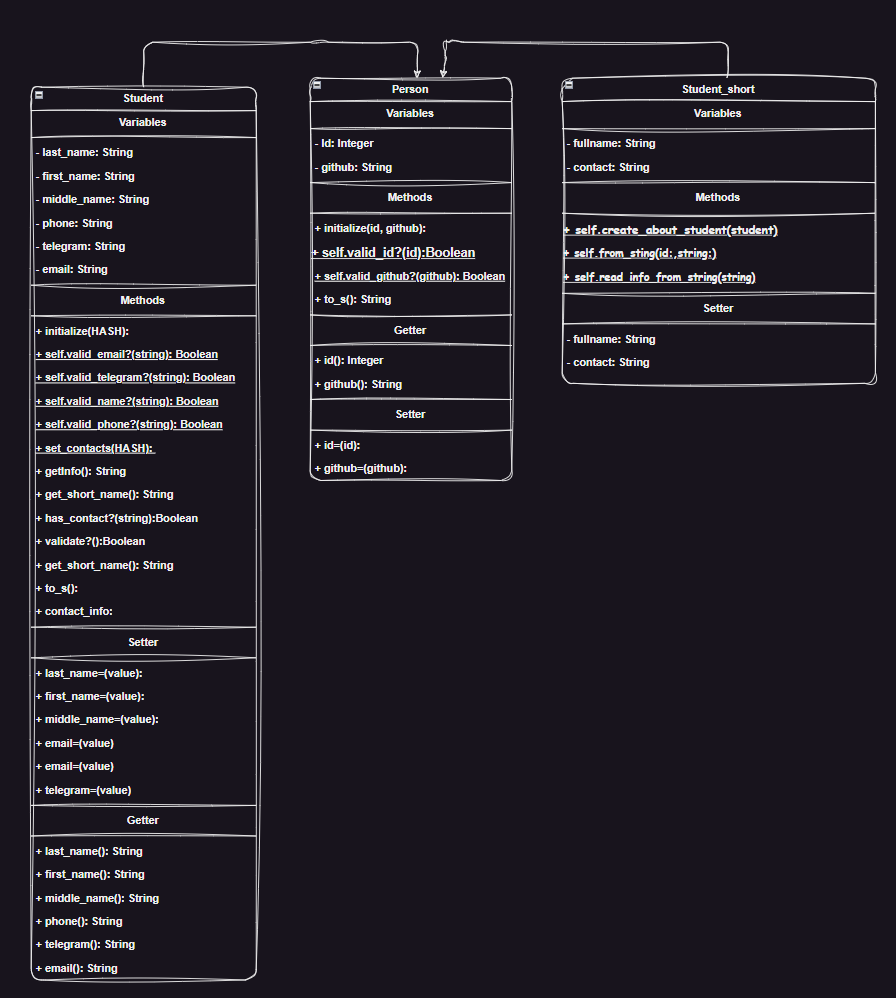
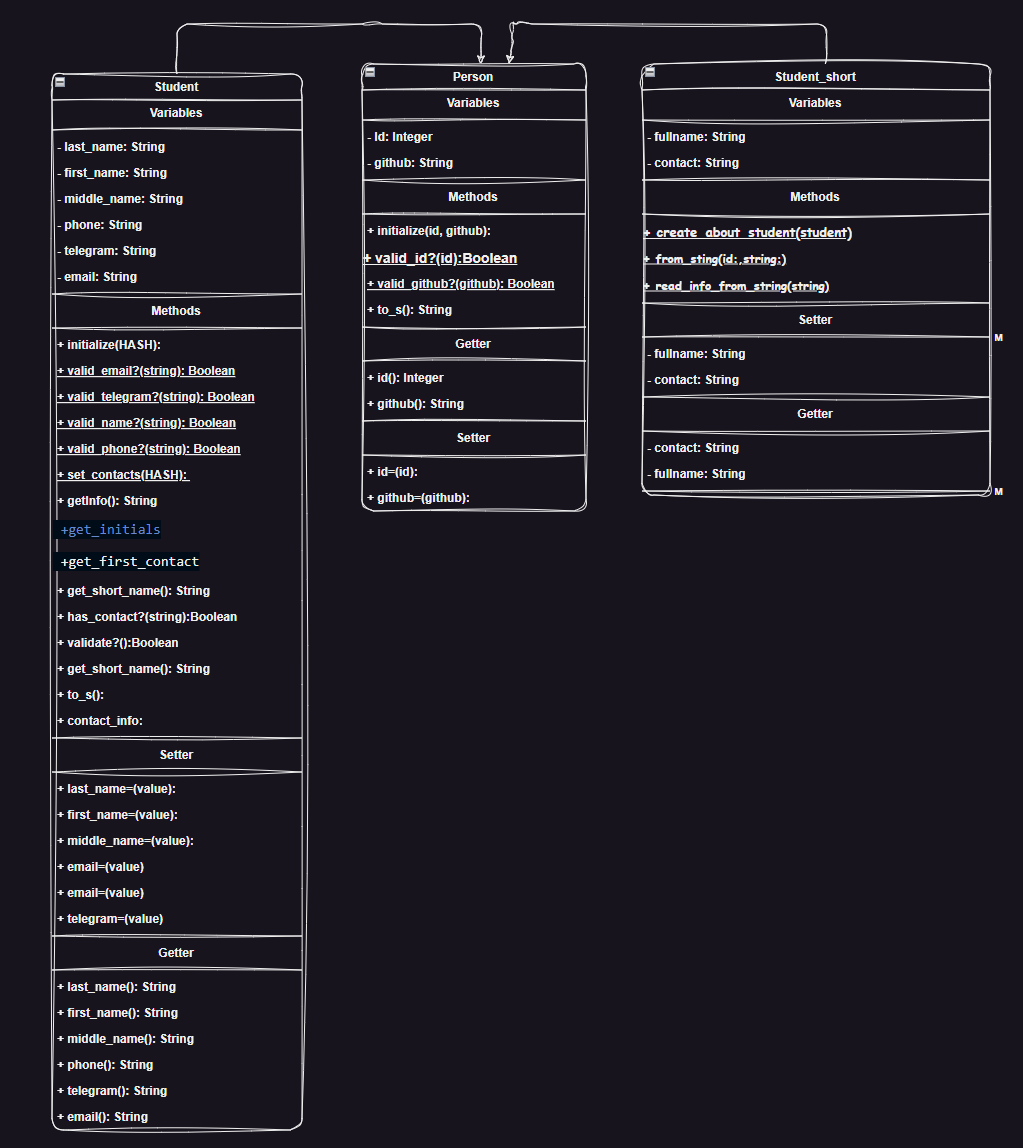
|Lab№2|Update student, student_short, class_diagram|

Changed region(s): [[0.0312, 0.0, 1.0, 0.994]]

diff --git a/Student_Records/student_short.rb b/Student_Records/student_short.rb
@@ -3,30 +3,30 @@ require_relative 'person'
 class Student_short < Person
 
   def self.create_about_student(student)
-    new(id: student.id, git: student.git, fullname: student.fullname, contact: student.contact)
+    new(id: student.id, git: student.git, initials: student.initials, contact: student.contact)
   end  
 
   def self.from_sting(id:,string:)
-    fullname, contact, git= read_info_from_string(string)
-    new(id: id, fullname:fullname, contact:contact, git:git)
+    initials, contact, git= read_info_from_string(string)
+    new(id: id, initials:initials, contact:contact, git:git)
   end
   
   def  self.read_info_from_string(string)
-    fullname,contact,git = string.split(', ')
-    return fullname,contact,git
+    initials,contact,git = string.split(', ')
+    return initials,contact,git
   end  
   
   def to_s
-    "\nID: #{@id} \nFullname: #{@fullname} \nGit: #{@git} \nContact: #{@contact}"
+    "\nID: #{@id} \nInitials: #{@initials} \nGit: #{@git} \nContact: #{@contact}"
   end
 
-  private attr_accessor :fullname, :contact 
+  private attr_accessor :initials, :contact 
 
   private_class_method :new
 
-    def initialize(id: nil, fullname:nil , git: nil, contact: nil)
+    def initialize(id: nil, initials:nil , git: nil, contact: nil)
       super(id: id, git: git)
-      @fullname = fullname
+      @initials = initials
       @contact = contact
     end 
 end  

diff --git a/Student_Records/student.rb b/Student_Records/student.rb
@@ -76,9 +76,21 @@ class Student < Person
     has_github? && has_contact?
   end
 
+  # Получение короткого имени
   def get_short_name
-    fullname = @middle_name ? "#{@middle_name[0]}." : ""
+    middle_initial = @middle_name ? "#{@middle_name[0]}." : ""
     "#{@last_name} #{@first_name[0]}.#{middle_initial}"
+  end
+
+  # Метод для получения инициалов
+  def get_initials
+    middle_initial = @middle_name ? "#{@middle_name[0]}." : ""
+    "#{@first_name[0]}.#{middle_initial}#{@last_name[0]}."
+  end
+
+  # Метод для нахождения первого контакта
+  def get_first_contact
+    [@phone, @telegram, @email].find { |contact| contact && !contact.empty? }
   end
 
   def to_s
@@ -86,10 +98,10 @@ class Student < Person
   end
 
   def contact_info
-    contact = []
-    contact << "Телефон: #{@phone}" if @phone
-    contact << "Telegram: #{@telegram}" if @telegram
-    contact << "Почта: #{@email}" if @email
-    contact.empty? ? "Нет контактов" : contacts.join(", ")
+    contacts = []
+    contacts << "Телефон: #{@phone}" if @phone
+    contacts << "Telegram: #{@telegram}" if @telegram
+    contacts << "Почта: #{@email}" if @email
+    contacts.empty? ? "Нет контактов" : contacts.join(", ")
   end
 end
